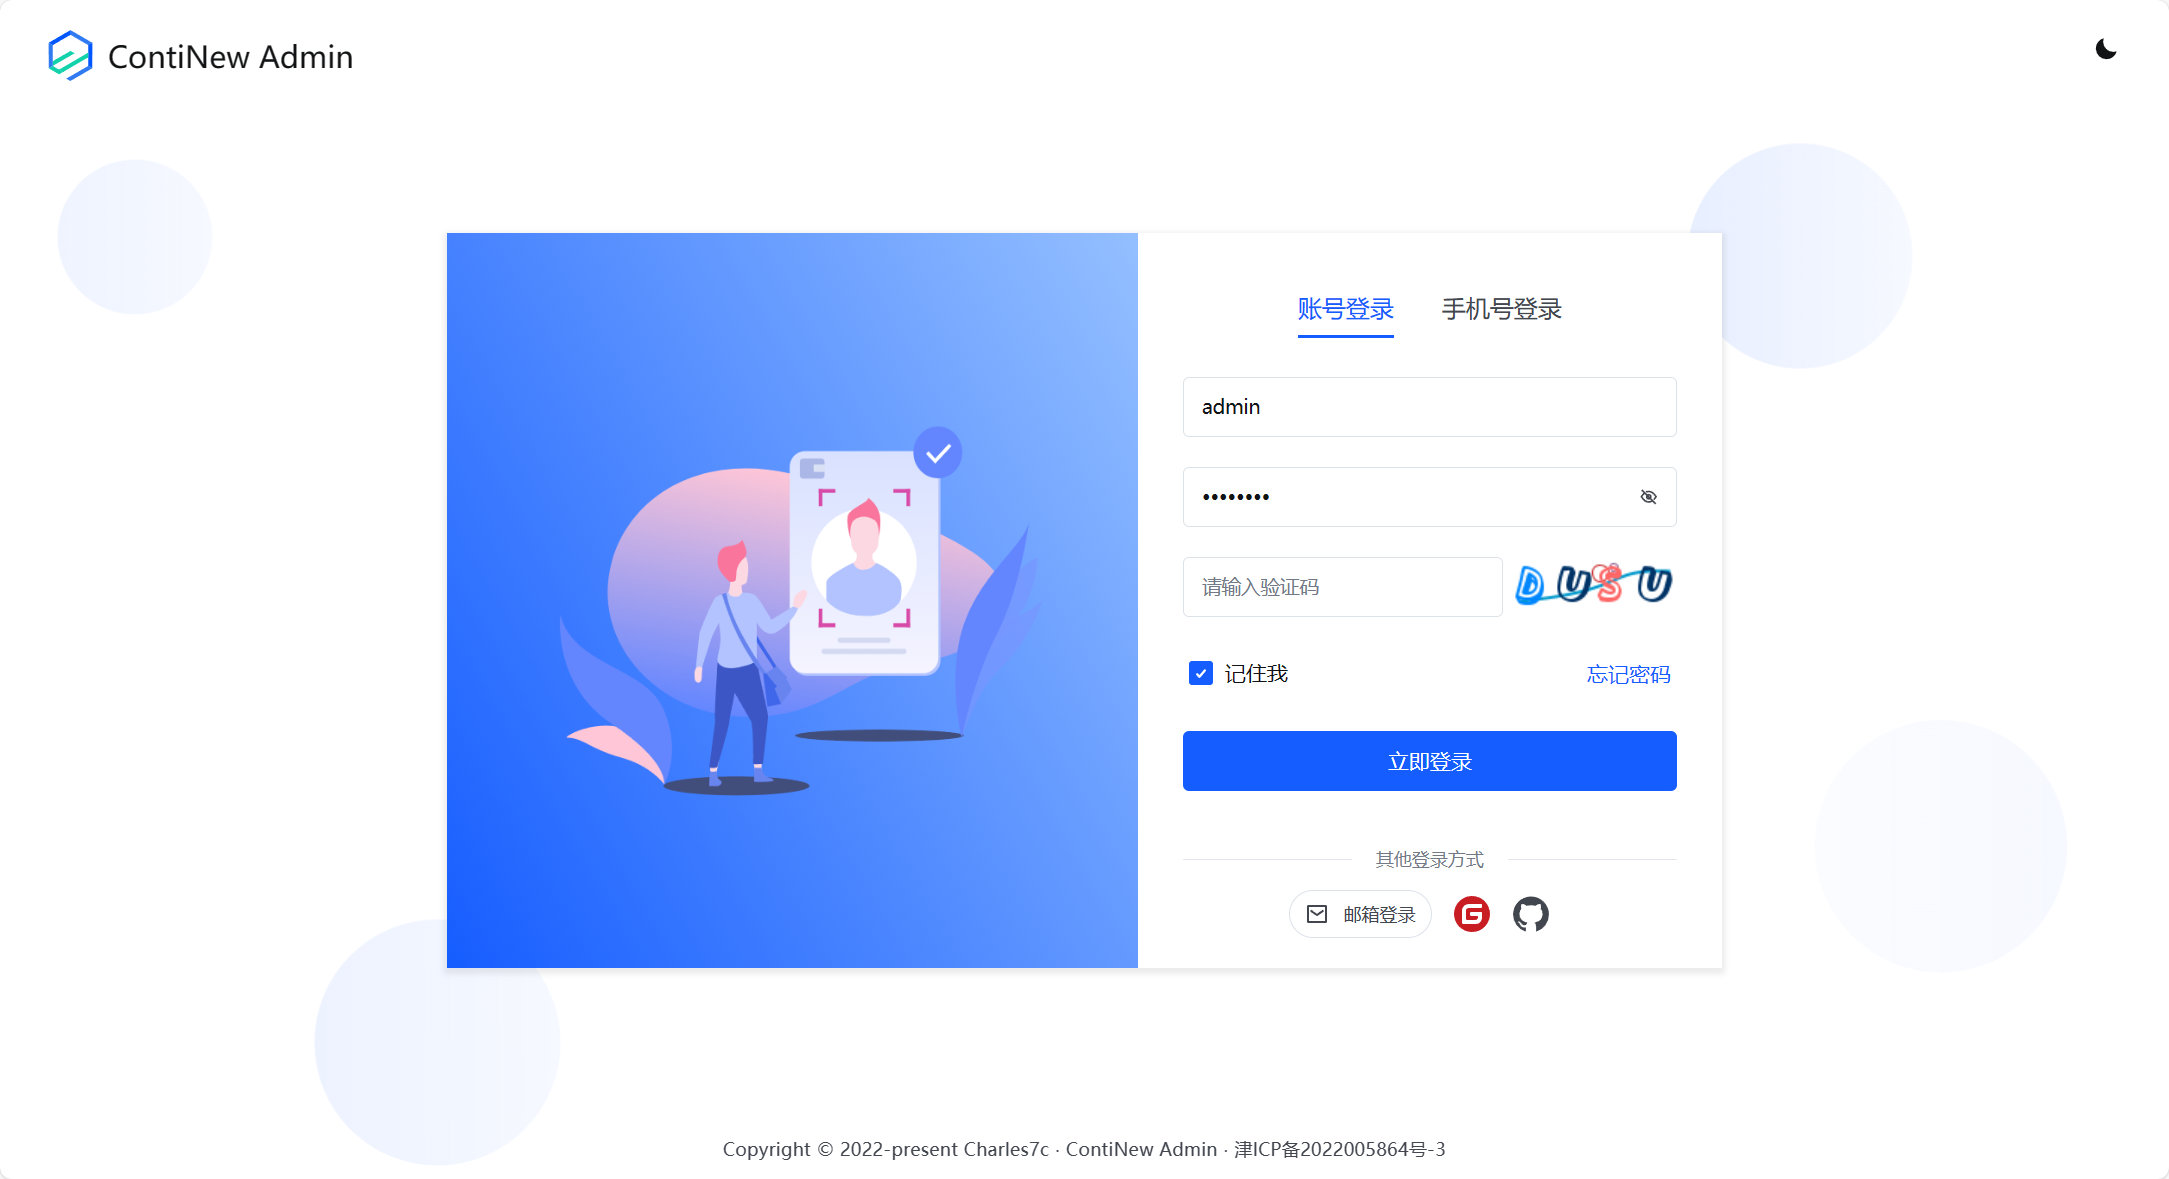
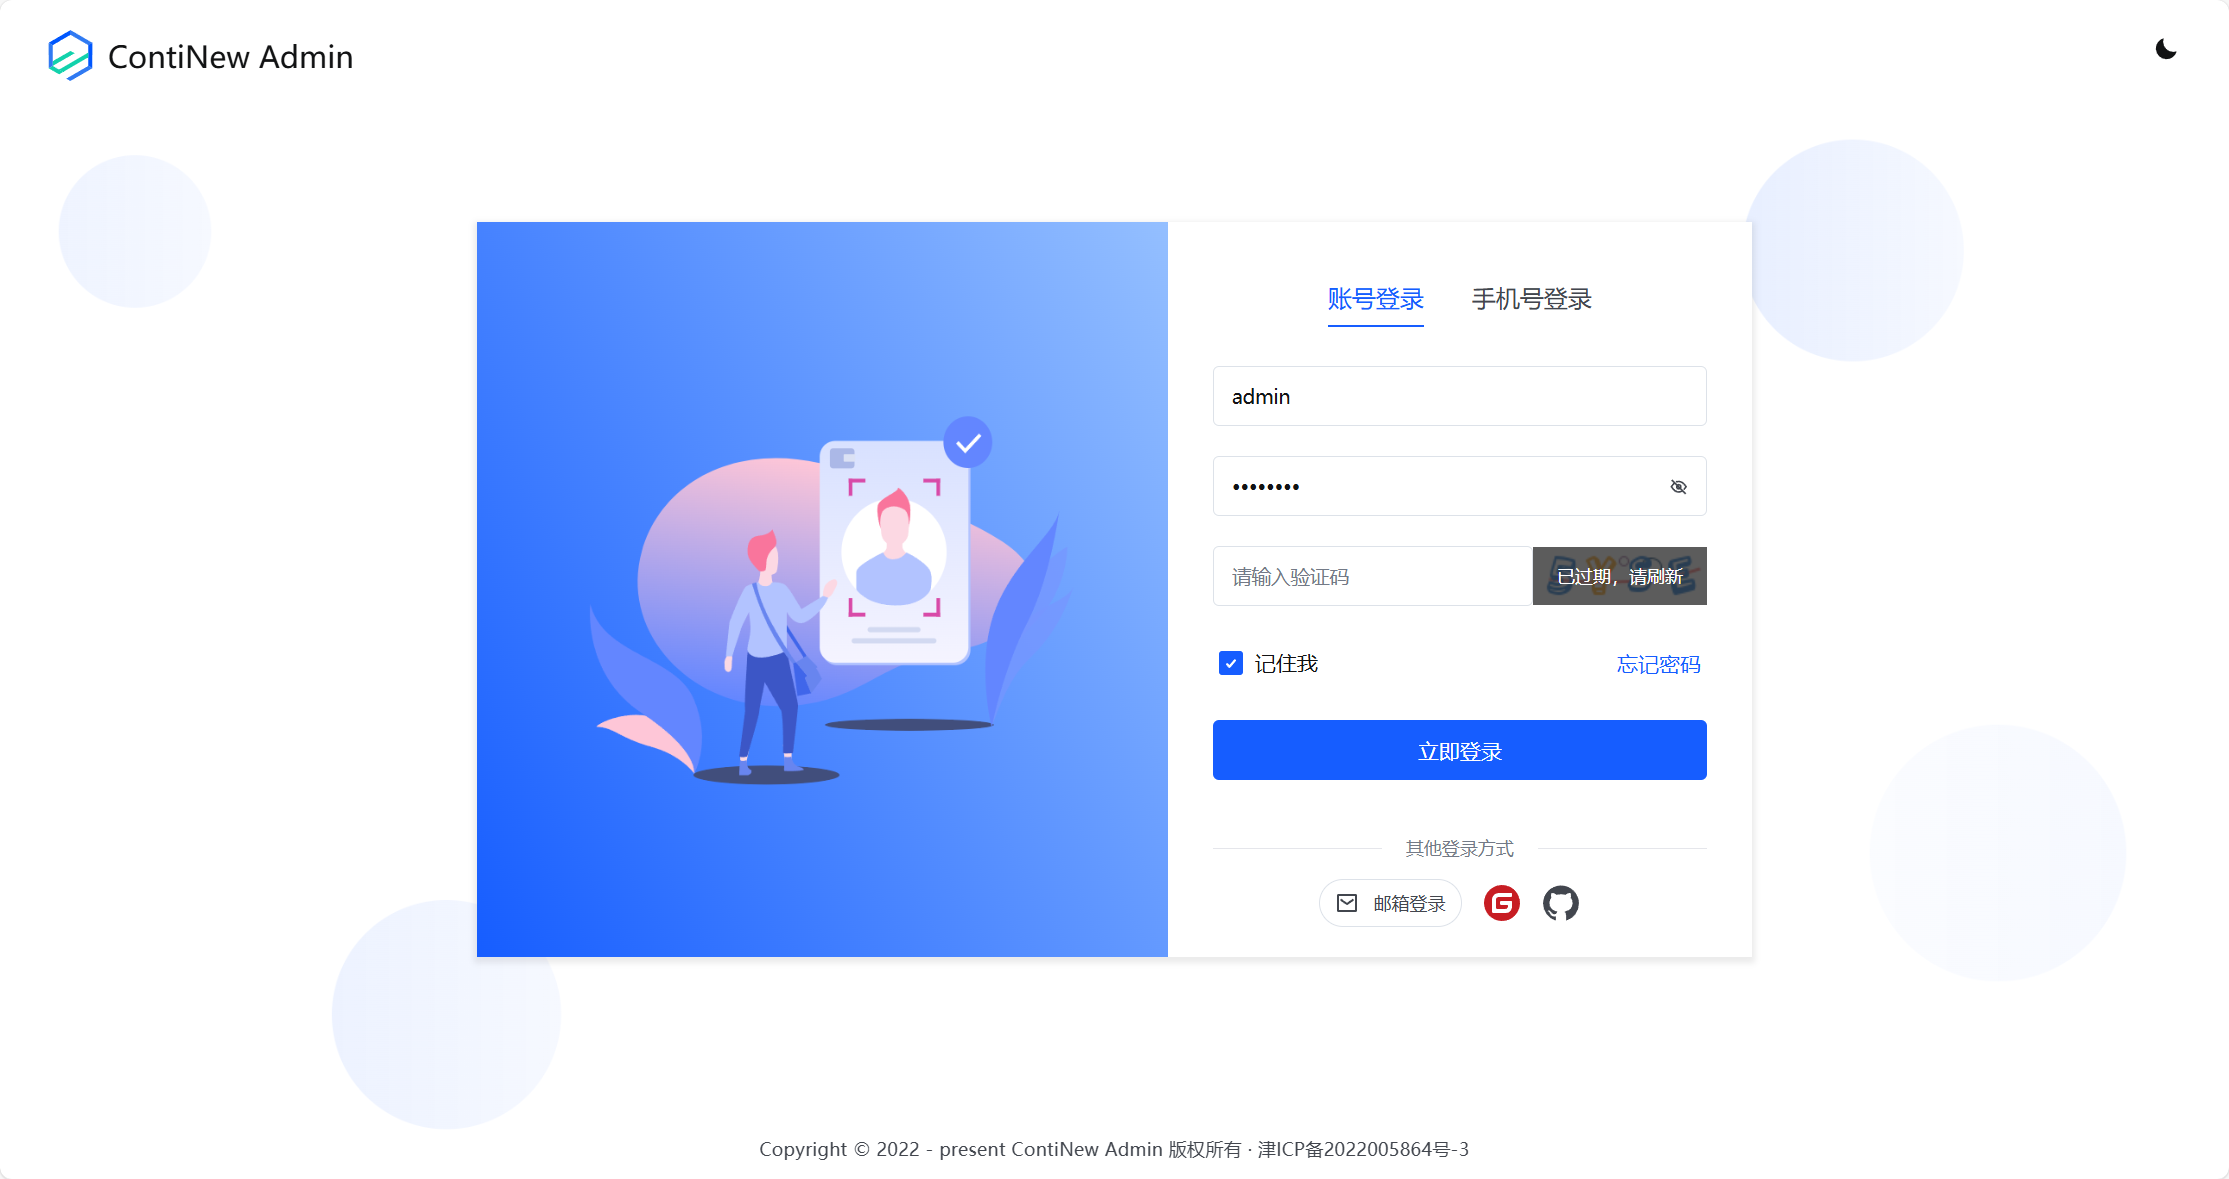
release: v3.1.0

diff --git a/CHANGELOG.md b/CHANGELOG.md
@@ -1,3 +1,66 @@
+## [v3.1.0](https://github.com/Charles7c/continew-admin-ui/compare/v3.0.1...v3.1.0) (2024-06-16)
+
+### ✨ 新特性
+
+* 系统配置新增安全设置功能 ([395a564](https://github.com/Charles7c/continew-admin-ui/commit/395a5642afbe3bac8b6b3f161949264a874033ba))
+* useTable 支持 “无分页” 列表 ([1421412](https://github.com/Charles7c/continew-admin-ui/commit/1421412d678c926868b06ae8adeba292f390d3b1))
+* 图片文件支持缩略图 (GitHub#17) ([c82dc90](https://github.com/Charles7c/continew-admin-ui/commit/c82dc9083bf7dbb9cccdd7c4daff6fe743eb9a0c))
+* 在线用户增加最后活跃时间显示 ([fff4de5](https://github.com/Charles7c/continew-admin-ui/commit/fff4de56f30d3e3f777bd45b2f77be61bba3a555)) ([4eef0db](https://github.com/Charles7c/continew-admin-ui/commit/4eef0db9f93cb73e10113c8f69ad547f502db621))
+* 新增行为验证码，行为验证码重新上线 (Gitee#7) ([778b3c6](https://github.com/Charles7c/continew-admin-ui/commit/778b3c677fee14071d49355980936b52d16a7313))
+* 新增消息中心 ([fdd4b9a](https://github.com/Charles7c/continew-admin-ui/commit/fdd4b9a4dfcb600e8455c5c402fc6f818b6f1507))
+* 新增 WebSocket 消息通知 (GitHub#20) ([adc6f64](https://github.com/Charles7c/continew-admin-ui/commit/adc6f643b3ba481313b3f23e876eb4836d8753b4)) ([56b1fdd](https://github.com/Charles7c/continew-admin-ui/commit/56b1fdd75521b08334b25e2d03f7cbcfe2014360)) ([c104ba5](https://github.com/Charles7c/continew-admin-ui/commit/c104ba5445f1c990b08ec5fd3a8cf1d783d65c76))
+* 新增邮件配置 (Gitee#8) ([1ebfd11](https://github.com/Charles7c/continew-admin-ui/commit/1ebfd115eb4f488a7a9464415ce061f9ad36eca0)) ([45cbabf](https://github.com/Charles7c/continew-admin-ui/commit/45cbabf54503210305f7e74382fa7c4d702c359c)) ([66f89b4](https://github.com/Charles7c/continew-admin-ui/commit/66f89b44d897b7e6874b9882e8708cadf5ab60aa)) ([6e520a3](https://github.com/Charles7c/continew-admin-ui/commit/6e520a30720c418b7484f37c1736f189613e83ce))
+* 文件管理增加复制文件 URL 按钮 ([5c6d311](https://github.com/Charles7c/continew-admin-ui/commit/5c6d3119eb4aab0f679aaeadcead7f96f6f1ea22))
+* 新增版权条显示配置 ([0f3d927](https://gitee.com/continew/continew-admin-ui/commit/0f3d927f9894e296e5dde83feb1738206c44b5b1)) ([d7e29e2](https://gitee.com/continew/continew-admin-ui/commit/d7e29e238ee31301807275be1147824295995650))
+* 新增密码过期修改页面逻辑 ([921d9c6](https://github.com/charles7c/continew-admin-ui/commit/921d9c63e955711473e1c911f59da4711cdc1197))
+* 新增前端简略版本更新提示 ([03d05e1](https://github.com/charles7c/continew-admin-ui/commit/03d05e1821a0360afa724d86ce34a51aedb9c07e))
+
+### 💎 功能优化
+
+- 路由多级缓存调整为扁平化方案 ([5f3dd93](https://github.com/Charles7c/continew-admin-ui/commit/5f3dd93376ed62c803d6e26965f43812c86abee8))
+- 优化 ESLint 配置并更正问题代码（eslint src --fix） ([5d9fedc](https://github.com/Charles7c/continew-admin-ui/commit/5d9fedc35406e00d88d8921ffe04b99a7c49cb8e))
+- 代码生成预览调整为以文件树结构形式显示 (Gitee#5) ([c9198b3](https://github.com/Charles7c/continew-admin-ui/commit/c9198b315c25cb3e8fd7f769b543e98e131f878c))
+- 优化公告和字典项响应式窗口效果 ([4c2f36f](https://github.com/Charles7c/continew-admin-ui/commit/4c2f36fe6b5254a613cabd686501e891cd8c7d1c))
+- 优化个人中心部分代码 ([eb11cae](https://github.com/Charles7c/continew-admin-ui/commit/eb11cae635ff4a0661603509cec4e85a462f5a63))
+- 更换 ESLint 配置为 @antfu/eslint-config ([bfc8e42](https://github.com/Charles7c/continew-admin-ui/commit/bfc8e42bad6777243fdca9bf37b0d95a92c75159))
+- 代码生成预览样式调整 (Gitee#6) ([fe656af](https://github.com/Charles7c/continew-admin-ui/commit/fe656af1aa1afbc290cf6a6121347106adf5df60)) ([cc0840e](https://github.com/Charles7c/continew-admin-ui/commit/cc0840e2ae7f25f25432c6a01781ac1a8112eea7))
+- 启动项目时，控制台增加应用信息打印 ([52e7682](https://github.com/Charles7c/continew-admin-ui/commit/52e7682a4786ae6e3fae49dcbd8ee473f30d2cb5))
+- 优化部分弹框响应式效果 ([c1c5f7f](https://github.com/Charles7c/continew-admin-ui/commit/c1c5f7f632827286982fdc0b9235cb115298e541))
+- 优化文件管理部分显示效果 ([7a2c66e](https://github.com/Charles7c/continew-admin-ui/commit/7a2c66e6463eb50d8c7bee0dcd21c396fe642ceb))
+- 优化重置路由实现 ([7c1106e](https://github.com/Charles7c/continew-admin-ui/commit/7c1106e8c26d3dc3c2ecee93f9f98bc56a171720))
+- 优化 copy 组件使用 ([c369b88](https://github.com/Charles7c/continew-admin-ui/commit/c369b88185c85bb7782383617fd6debf1f6c16d9)) ([a8b5d97](https://github.com/Charles7c/continew-admin-ui/commit/a8b5d97bfa0ed256205284deb7364bf50e18927a))
+- 优化用户角色名称展示 ([d4b9057](https://github.com/Charles7c/continew-admin-ui/commit/d4b9057554f7bbe58d45429529d7279182100616))
+- 优化删除弹窗按钮样式 ([c2806c4](https://github.com/Charles7c/continew-admin-ui/commit/c2806c469695adbe3ef1950957a33d48059c6cb6))
+- 优化表格页面样式及表格纵向滚动条 ([861f620](https://github.com/Charles7c/continew-admin-ui/commit/861f6203cc0ebcdd7087434c9d8bafccf4360812))
+- 重构字典管理（左树右表） ([a175120](https://github.com/Charles7c/continew-admin-ui/commit/a175120d699f5da099e7f027a6c5f0fba26705d8)) ([aac5899](https://github.com/Charles7c/continew-admin-ui/commit/aac5899fe0a01fe0e91ffc1904c94ac9ecaa4885))
+- 重构用户管理部门树，支持部门管理 ([ca05fab](https://github.com/Charles7c/continew-admin-ui/commit/ca05fabdec277965057f7901317edefca74cb258)) ([1be08f1](https://github.com/Charles7c/continew-admin-ui/commit/1be08f10010654dc675d67b792f1fc870df5961e)) ([f8ded4b](https://github.com/Charles7c/continew-admin-ui/commit/f8ded4b491a22369d43ff3e76f75c771130c4f1c))
+- 优化表格列表显示 ([ed7be3e](https://github.com/Charles7c/continew-admin-ui/commit/ed7be3ef25a91d66bcd33bae6176ecb81c85ec44))
+- 优化文件管理分页 ([00da9ac](https://github.com/Charles7c/continew-admin-ui/commit/00da9acdd09e4f2f8233ec22ae37408f9a027674))
+- 优化系统配置加载与切换问题 ([605ac4d](https://github.com/Charles7c/continew-admin-ui/commit/605ac4d0865e2b7471583f3e0b5a14993bf25104))
+- 优化全局 loading 及 empty 配置 ([7e329fc](https://github.com/Charles7c/continew-admin-ui/commit/7e329fcffacc58cb626b3b7a71a53d8decc170f7))
+- 适配系统参数 API 新的使用方式 ([1909b6e](https://github.com/Charles7c/continew-admin-ui/commit/1909b6e907f8d8dd00d8e59eff8c2125914cad3f))
+- 存储管理S3存储配置填充默认域名 (GitHub#21) ([5897bde](https://github.com/Charles7c/continew-admin-ui/commit/5897bde0c45dd61a94ac9bcf85b55f12a7fe5133))
+- 优化个人中心部分默认显示效果 ([f2206b7](https://github.com/Charles7c/continew-admin-ui/commit/f2206b78012d594010bc6cee47a95a9ebab1ad1b))
+- 调整对话框默认可拖拽，表格默认可调整列宽 ([5581d3f](https://github.com/Charles7c/continew-admin-ui/commit/5581d3fd8910997d61ca6e281cec50caef264ca3))
+- 目录下仅有一个菜单时平铺展示 ([dc4ae0f](https://github.com/Charles7c/continew-admin-ui/commit/dc4ae0fb34a940030f4fc1841ede3557ccccb58c))
+
+
+### 🐛 问题修复
+
+- 修复用户列表禁用列错误 ([1e5a50c](https://github.com/Charles7c/continew-admin-ui/commit/1e5a50c37bc8dbc18d917e523b0a215a510f57db))
+- 修复菜单管理列表滚动问题 ([5101dd1](https://github.com/Charles7c/continew-admin-ui/commit/5101dd12d9769d8927afb40619fb68d696c22a82))
+- 修复打包部署后或 preview 模式下，布局切换及页签显示异常 ([68d8f0f](https://github.com/Charles7c/continew-admin-ui/commit/68d8f0f5b36be162a0c64d500d845388c239c4a7))
+- 修复文件管理图表加载错误 ([d1af509](https://github.com/Charles7c/continew-admin-ui/commit/d1af509a1aaa7d1a6982f3dcdadb7202b71b9475))
+- 字典编码不允许修改 ([0a6cd6e](https://github.com/Charles7c/continew-admin-ui/commit/0a6cd6ef989309a450a810852cbd74e35ed29b6a))
+- 修复字典重复请求问题 ([6705027](https://github.com/Charles7c/continew-admin-ui/commit/6705027273e098cde57792743c3a0bdacb559449)) ([30222b0](https://github.com/Charles7c/continew-admin-ui/commit/30222b08ab6539552f3679f4cb9442f477f4df55))
+- 代码生成配置表单校验错误自动跳转回错误 tab ([a015d9f](https://github.com/Charles7c/continew-admin-ui/commit/a015d9f843cb72aeb99674a271914044a4e00794))
+- 修复文件管理左侧‘全部’查询问题 ([d6c5b89](https://github.com/Charles7c/continew-admin-ui/commit/d6c5b8988c84d6d33474d51162bad12973b86c91))
+- 修复导出报 400 的问题 ([377a1ff](https://github.com/Charles7c/continew-admin-ui/commit/377a1ff1b74fa357545c3298e5b9c480b0f3f0d3))
+- 修复用户管理排序参数错误 ([bcbe106](https://github.com/Charles7c/continew-admin-ui/commit/bcbe10660fbfdab5a7c7b17c9353aba3adc12638))
+- 修复初始值使用错误 ([fd55ad4](https://github.com/Charles7c/continew-admin-ui/commit/fd55ad422888f74ea2deda679172db0cff923c9f))
+- 修复第三方登录错误 ([a775b86](https://github.com/Charles7c/continew-admin-ui/commit/a775b86e2e0973a16e6b9a1945acbd904773b876))
+- 修复验证码长度限制错误 ([8702be4](https://github.com/Charles7c/continew-admin-ui/commit/8702be45ed64dde39f443c2e5570fd2474821e6b))
+
 ## [v3.0.1](https://github.com/Charles7c/continew-admin-ui/compare/v3.0.0...v3.0.1) (2024-05-03)
 
 ### ✨ 新特性

diff --git a/README.md b/README.md
@@ -4,7 +4,7 @@
 <img src="https://img.shields.io/badge/License-Apache--2.0-blue.svg" alt="License" />
 </a>
 <a href="https://github.com/Charles7c/continew-admin-ui" target="_blank">
-<img src="https://img.shields.io/badge/SNAPSHOT-v3.1.0-%23ff3f59.svg" alt="Release" />
+<img src="https://img.shields.io/badge/RELEASE-v3.1.0-%23ff3f59.svg" alt="Release" />
 </a>
 <a href="https://github.com/Charles7c/continew-admin" target="_blank">
 <img src="https://img.shields.io/github/stars/Charles7c/continew-admin?style=social" alt="GitHub stars" />
@@ -121,9 +121,9 @@ public class DeptController extends BaseController<DeptService, DeptResp, DeptDe
 - 文件管理：提供文件上传、下载、预览（目前支持图片、音视频）、重命名、切换视图（列表、网格）等功能
 - 存储管理：提供文件存储库新增、编辑、删除等功能，支持本地存储、兼容 S3 协议存储
 - 系统配置：
-    - 基础配置：提供修改系统标题、Logo、favicon 等基础配置功能，以方便用户系统与其自身品牌形象保持一致
+    - 基础配置：提供修改系统标题、Logo、favicon、版权信息等基础配置功能，以方便用户系统与其自身品牌形象保持一致
     - 邮件配置：提供系统发件箱配置，也支持通过配置文件指定
-    - 安全配置：提供密码策略修改，支持丰富的密码策略设定，包括但不限于`密码有效期`、`修改密码最短时间间隔`、`密码错误锁定账号次数、时间` 等
+    - 安全配置：提供密码策略修改，支持丰富的密码策略设定，包括但不限于 `密码有效期`、`密码重复次数`、`密码错误锁定账号次数、时间` 等
 - 代码生成：提供根据数据库表自动生成相应的前后端 CRUD 代码的功能，支持同步最新表结构及代码生成预览
 - 在线用户：管理当前登录用户，可一键踢下线
 - 日志管理：提供登录日志、操作日志管理功能，可查看指定日志的详细请求及响应信息
@@ -131,7 +131,7 @@ public class DeptController extends BaseController<DeptService, DeptResp, DeptDe
 ## 系统截图
 
 > [!TIP]
-> 受篇幅长度及功能更新频率影响，下方仅为系统 **部分** 功能于 **2024年5月3日** 进行的截图，更多新增功能及细节请登录演示环境或 clone 代码到本地启动查看。
+> 受篇幅长度及功能更新频率影响，下方仅为系统 **部分** 功能于 **2024年6月13日** 进行的截图，更多新增功能及细节请登录演示环境或 clone 代码到本地启动查看。
 
 <table border="1" cellpadding="1" cellspacing="1" style="width: 500px">
     <tbody>
@@ -141,15 +141,15 @@ public class DeptController extends BaseController<DeptService, DeptResp, DeptDe
         </tr>
         <tr>
             <td><img src=".image/screenshot/002仪表盘-查看公告.png" alt="仪表盘-查看公告" width="1920" /></td>
-            <td><img src=".image/screenshot/010账号管理.png" alt="账号管理" width="1920" /></td>
+            <td><img src=".image/screenshot/010个人中心.png" alt="个人中心" width="1920" /></td>
         </tr>
         <tr>
-            <td><img src=".image/screenshot/011安全设置.png" alt="安全设置" width="1920" /></td>
-            <td><img src=".image/screenshot/012安全设置-修改邮箱.png" alt="安全设置-修改邮箱" width="1920" /></td>
+            <td><img src=".image/screenshot/011消息中心.png" alt="消息中心" width="1920" /></td>
+            <td><img src=".image/screenshot/012安全设置-修改邮箱-邮箱验证码.png" alt="安全设置-修改邮箱-邮箱验证码" width="1920" /></td>
         </tr>
         <tr>
-            <td><img src=".image/screenshot/013安全设置-修改邮箱-邮箱验证码.png" alt="安全设置-修改邮箱-邮箱验证码" width="1920" /></td>
             <td><img src=".image/screenshot/060系统管理-系统配置.png" alt="系统管理-系统配置" width="1920" /></td>
+            <td><img src=".image/screenshot/061系统管理-安全配置.png" alt="系统管理-安全配置" width="1920" /></td>
         </tr>
         <tr>
             <td><img src=".image/screenshot/020系统管理-用户管理-列表.png" alt="系统管理-用户管理-列表" width="1920" /></td>
